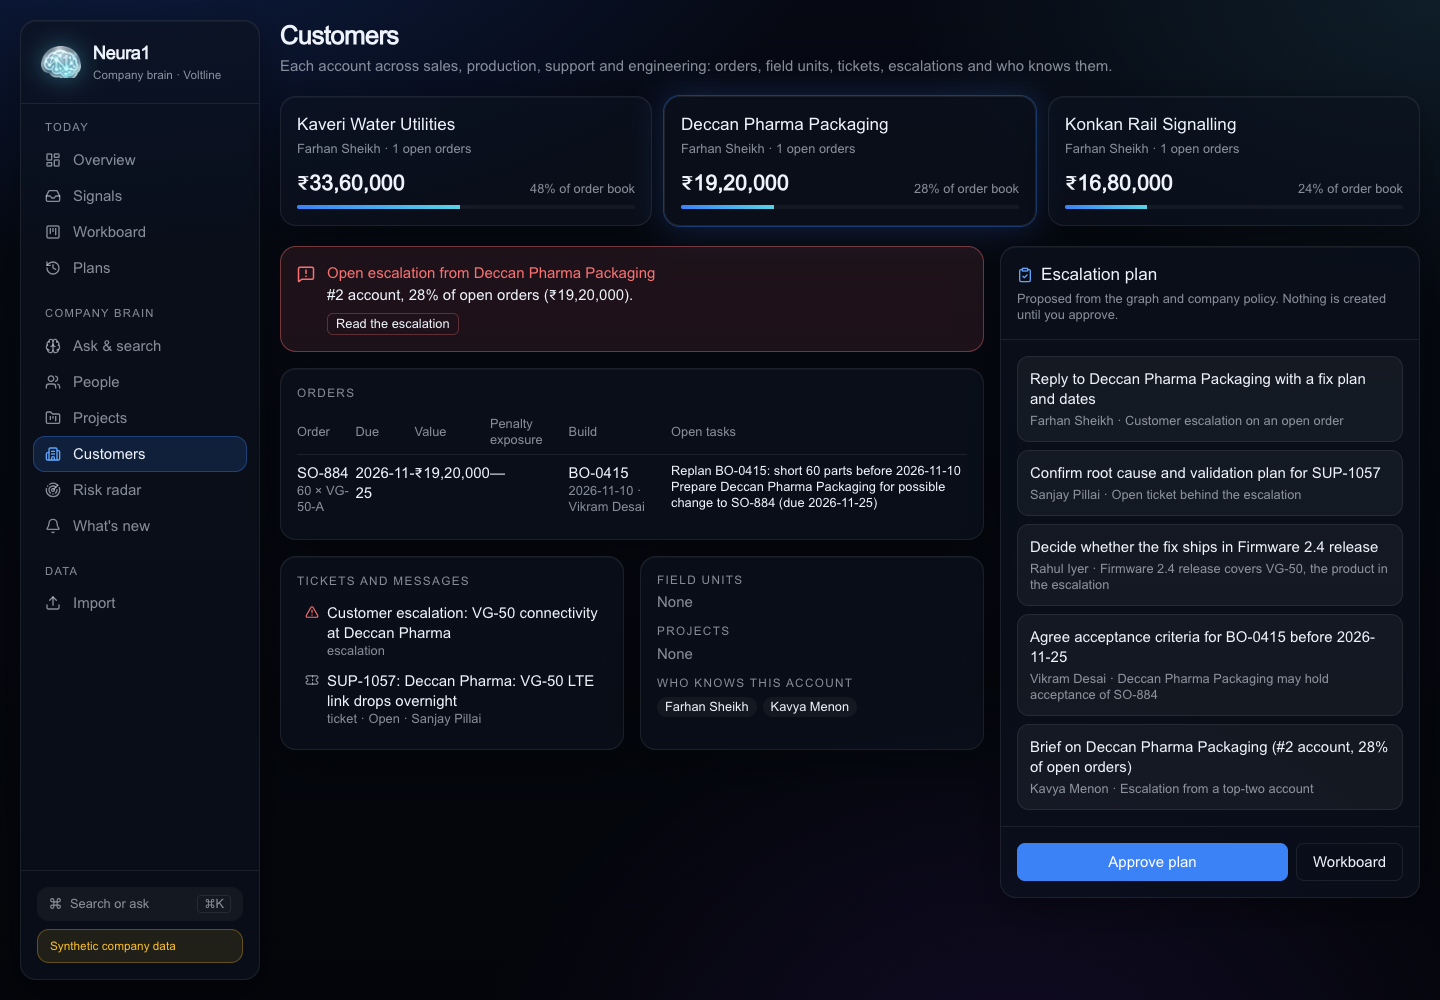
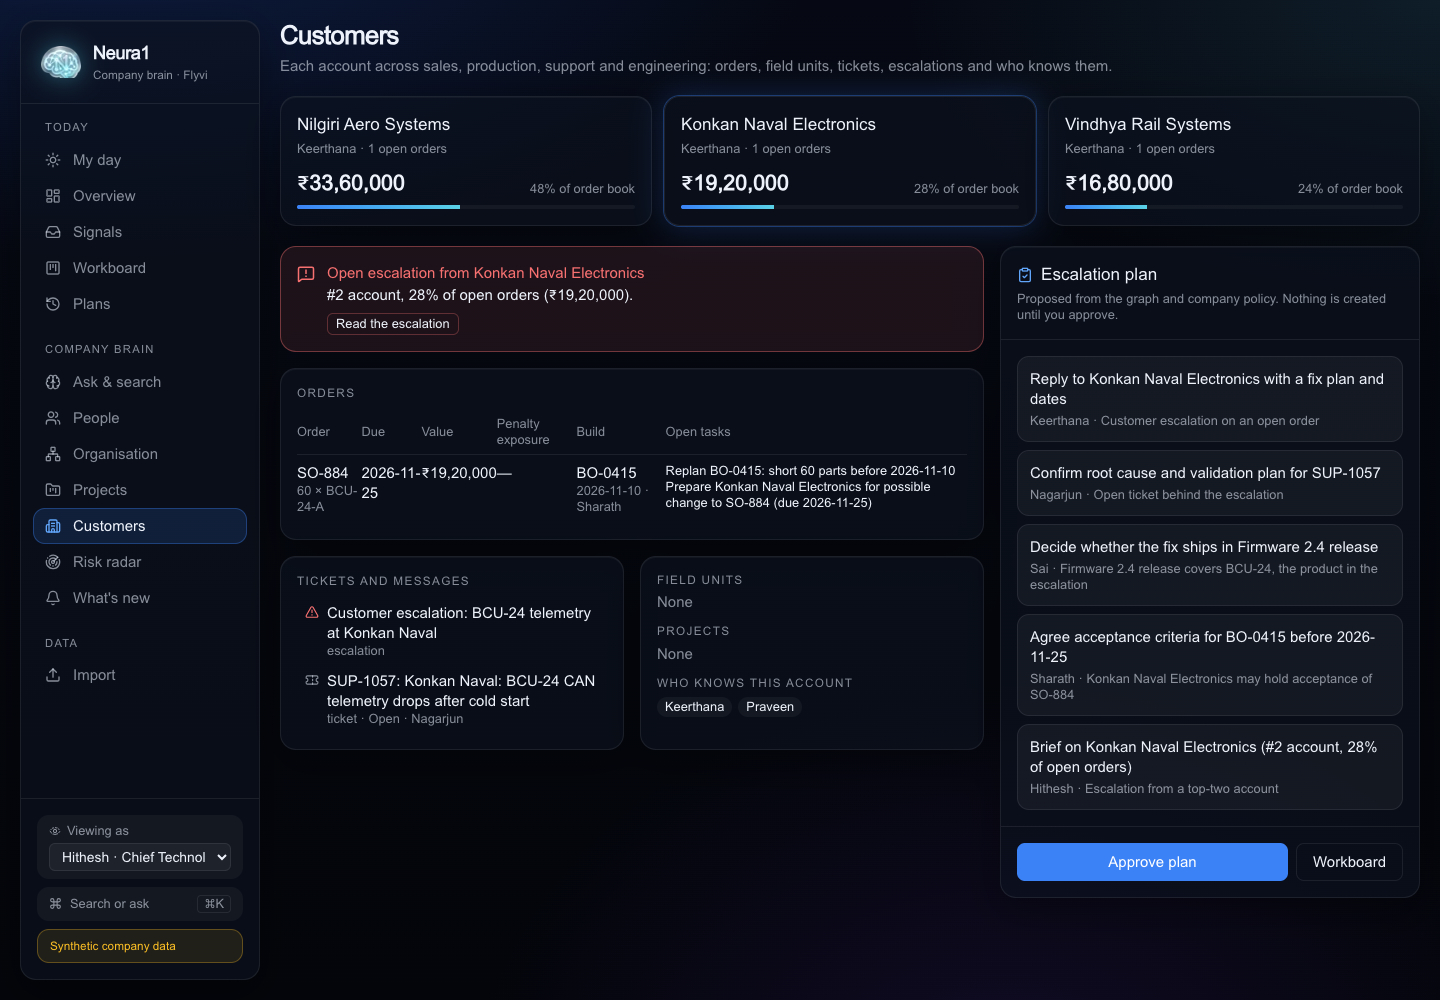
Re-run model extraction on Flyvi documents; refresh screenshots; harden Ask tools
Model outputs regenerated from the renamed documents (not hand-edited),
all screens recaptured, resolve_item handles several part numbers at once,
and the approval check no longer flags the incumbent part.

diff --git a/api/neura1/agent.py b/api/neura1/agent.py
@@ -47,7 +47,8 @@ def check_approval_claims(graph: Graph, answer: str) -> list[str]:
 
     warnings = []
     statuses = {}
-    for r in rows(graph, "MATCH (a:Item)-[:ALTERNATE_OF]-(:Item) RETURN DISTINCT a.id AS id"):
+    # Only the alternates themselves (the part the alternate stands in for is the approved incumbent).
+    for r in rows(graph, "MATCH (a:Item)-[:ALTERNATE_OF]->(:Item) RETURN DISTINCT a.id AS id"):
         decisions = rows(graph, """MATCH (d:Decision)-[:ABOUT]->(:Item {id:$id})
                                    RETURN d.outcome AS outcome, d.authority AS authority, d.status AS status""",
                          {"id": r["id"]})
@@ -126,7 +127,17 @@ TOOLS = [
 
 def run_tool(graph: Graph, trace: Trace, name: str, args: dict):
     if name == "resolve_item":
-        return trace.run(name, Q.RESOLVE_ITEM, {"text": args["text"]})
+        text = str(args.get("text", "")).strip()
+        found = trace.run(name, Q.RESOLVE_ITEM, {"text": text})
+        if found:
+            return found
+        # Small models often pass several part numbers at once ("NB54360 NB54361-L"): resolve each one.
+        out = []
+        for token in [t for t in re.split(r"[\s,;/]+", text) if len(t) >= 3]:
+            hit = trace.run(name, Q.RESOLVE_ITEM, {"text": token}) or \
+                [s | {"suggestion": True} for s in trace.run("suggest_items", Q.SUGGEST_ITEMS, {"text": token})]
+            out.extend(hit)
+        return out or {"error": f"No item matches {text!r}", "hint": "pass one part number or id per call"}
     if name == "where_used":
         return trace.run(name, Q.WHERE_USED, {"item_id": args["item_id"]})
     if name == "dependents":

diff --git a/api/tests/test_agent_tools.py b/api/tests/test_agent_tools.py
@@ -45,3 +45,14 @@ def test_false_approval_claims_are_flagged(graph):
     flagged = check_approval_claims(graph, "The only approved alternative is MX-3360. NB54361-L is not approved.")
     assert len(flagged) == 1 and "MX-3360" in flagged[0] and "NOT APPROVED" in flagged[0]
     assert check_approval_claims(graph, "MX-3360 is not approved yet.") == []
+
+
+def test_resolve_item_handles_several_part_numbers_at_once(graph):
+    out = run_tool(graph, Trace(graph), "resolve_item", {"text": "NB54360 NB54361-L"})
+    assert {r["id"] for r in out} == {"NB54360", "NB54361-L"}
+
+
+def test_incumbent_part_called_approved_is_not_flagged(graph):
+    from neura1.agent import check_approval_claims
+
+    assert check_approval_claims(graph, "The only approved part for this application is NB54360.") == []

diff --git a/scripts/capture_demo.py b/scripts/capture_demo.py
@@ -110,7 +110,7 @@ def main() -> None:
         page.get_by_role("button", name="Nilgiri", exact=True).click()
         page.wait_for_timeout(1500)
         page.locator("section.card").nth(1).screenshot(path=str(OUT / "who-knows.png")); shots.append("who-knows.png")
-        for name, url, wait in (("people", "/people?id=P-SAI", "Knows about"),
+        for name, url, wait in (("people", "/people?id=P-SAI", "Working on now"),
                                 ("projects", "/projects?id=PRJ-NILGIRI", "Recent discussion"),
                                 ("whats-new", "/changes", "Needs attention")):
             page.goto(base + url)

diff --git a/README.md b/README.md
@@ -23,7 +23,7 @@ the whole company (people, projects, products, customers, decisions) and turns i
   <img alt="Next.js" src="https://img.shields.io/badge/Next.js-16-000000?logo=nextdotjs&logoColor=white">
   <img alt="React Flow" src="https://img.shields.io/badge/React_Flow-ff0072">
   <img alt="Ollama" src="https://img.shields.io/badge/Ollama-Qwen2.5--7B-111111?logo=ollama&logoColor=white">
-  <img alt="Tests" src="https://img.shields.io/badge/tests-45_passing-2fd3a5">
+  <img alt="Tests" src="https://img.shields.io/badge/tests-47_passing-2fd3a5">
   <img alt="MCP" src="https://img.shields.io/badge/MCP-16_tools-5b6cff">
   <img alt="Cost" src="https://img.shields.io/badge/running_cost-₹0-2fd3a5">
 </p>
@@ -449,7 +449,7 @@ cd api
 cp .env.example .env                               # set NEURA1_DEMO_PASSCODE
 uv sync
 uv run python -m neura1.cli load                   # load Flyvi Technologies + saved model extractions
-uv run pytest -q                                   # 45 tests
+uv run pytest -q                                   # 47 tests
 uv run uvicorn neura1.main:app --port 8000
 
 cd ../web && pnpm install && pnpm dev              # http://localhost:3000
@@ -497,10 +497,10 @@ The agent uses a JSON plan-act loop, so it works even on servers whose native to
 
 | Check | Result |
 |---|---|
-| Automated tests | **45 passing**: BOM roll-ups, revision applicability, cost edge cases, import validation, CAD BOMs, extraction verification, idempotent approvals, the HTTP flow end to end, and 503 when the graph is down |
+| Automated tests | **47 passing**: BOM roll-ups, revision applicability, cost edge cases, import validation, CAD BOMs, extraction verification, idempotent approvals, the HTTP flow end to end, and 503 when the graph is down |
 | Local model on real fixture documents | DEC-117 found in **Slack and Jira** ✓ · notice read correctly ✓ · MX-3360 bench result ✓ · TR-131 bench note **missed** ✗ · [full table](docs/DEMO.md#what-the-local-model-got-right-and-wrong) |
-| Mistakes caught and fixed | The agent once called MX-3360 "approved". That led to the approval wording in tool output and the rule-based check. |
-| Frozen evaluation | 43 ground-truth questions in [`api/eval/golden.yaml`](api/eval/golden.yaml), written before any model ran: graph agent vs search-only vs whole-corpus, same model. **Results pending GPU time; failures will be published, not hidden.** |
+| Mistakes caught and fixed | The agent once called MX-3360 "approved", which led to the approval wording in tool output and the rule-based check. That check then flagged the incumbent part by mistake, and was narrowed to alternates only. A small model passed two part numbers in one lookup, so the lookup now splits them. |
+| Frozen evaluation | 48 ground-truth questions in [`api/eval/golden.yaml`](api/eval/golden.yaml), written before any model ran: graph agent vs search-only vs whole-corpus, same model. **Results pending GPU time; failures will be published, not hidden.** |
 
 <br>
 
@@ -534,7 +534,7 @@ api/                 FastAPI service
   neura1/search.py     hybrid vector + full-text search with graph expansion
   neura1/webhooks.py   Slack and Jira live ingestion
   neura1/mcp_server.py the graph's tools for any MCP client
-  tests/  eval/        45 tests · 43-question frozen evaluation
+  tests/  eval/        47 tests · 48-question frozen evaluation
 web/                 Next.js app: Inbox · Impact · Company brain · Investigations · Import
 fixture/flyvi/    synthetic company: records · chats · tickets · docs · notice · updates · model extractions
 docs/                demo walkthrough · data model · queries · target customer · reuse · AI disclosure

diff --git a/docs/DEMO.md b/docs/DEMO.md
@@ -73,7 +73,7 @@ A chat message can record a rejection. It can never approve a part. Only a perso
 - **Procurement:** every quote with validity, the baseline used, stock, net need and MOQ.
 - **Production:** each build's need, coverage from stock, shortfall and supply date.
 - **Sales:** orders, due dates, the penalty clause and the account manager.
-- **Support:** 220 Rev B controllers already at Nilgiri contain this part; spares will need the new lead time.
+- **Support:** 220 PDU-28 Rev B units already at Nilgiri contain this part; spares will need the new lead time.
 - **Management:** a summary generated from the query results, not by a language model.
 
 ## 5. Nothing is a black box
@@ -156,7 +156,7 @@ endpoint pointed at a GPU (e.g. a DGX Spark serving through vLLM) needs no code 
 |---|---|---|
 | 0:00 | Inbox | "Hardware companies run on a bill of materials. When one chip changes, every team is affected, and the reasons behind old choices are buried in Slack." |
 | 0:15 | Paste notice | "A distributor emails a price and lead-time change. Neura1 reads it with a local open-source model, and code checks every number against the email." |
-| 0:35 | Impact overview, graph | "One FalkorDB traversal: through the power module to two released products. Three per controller, because the module is fitted twice and the chip is also on the board. Drafts and obsolete revisions excluded." |
+| 0:35 | Impact overview, graph | "One FalkorDB traversal: through the power module to two released products. Three per unit, because the power stage is fitted twice and the chip is also on the board. Drafts and obsolete revisions excluded." |
 | 1:00 | Red banner → Slack evidence | "The cheaper pin-compatible part was rejected two years ago, in Slack. Neura1 found the decision, verified the quote word for word, and stops us repeating the mistake." |
 | 1:30 | Lenses | "Same graph, every team: firmware owner, quotes and stock, builds short, Nilgiri's penalty clause, units in the field." |
 | 2:00 | Cypher tab | "Every query is visible: 13 queries, about 30 ms." |

diff --git a/docs/target-customer.md b/docs/target-customer.md
@@ -1,14 +1,14 @@
 # Who Neura1 is for
 
 Neura1 is built for **one kind of business first: Indian industrial electronics product companies with
-20–300 people**. These companies design their own controllers, IIoT gateways, instruments or test equipment and
+20–300 people**. These companies design their own power electronics, controllers, instruments or embedded systems, often for aerospace, defence and industrial customers, and
 have them assembled in-house or at an EMS partner.
 
 This is a deliberate choice. A "company brain for everyone" can't know what a BOM revision is, why a
-cross-referenced part isn't approved, or that a late controller can trigger a penalty clause. A company brain
+cross-referenced part isn't approved, or that a late power unit can trigger a penalty clause. A company brain
 for this business can.
 
-> Status: this is our target hypothesis. The demo company, Flyvi Technologies, is synthetic. We have not yet run
+> Status: this is our target hypothesis. The demo uses Flyvi Technologies, a real company, with synthetic data. We have not yet run
 > interviews or pilots. See "What we still need to prove" below.
 
 ## The people and the moment
